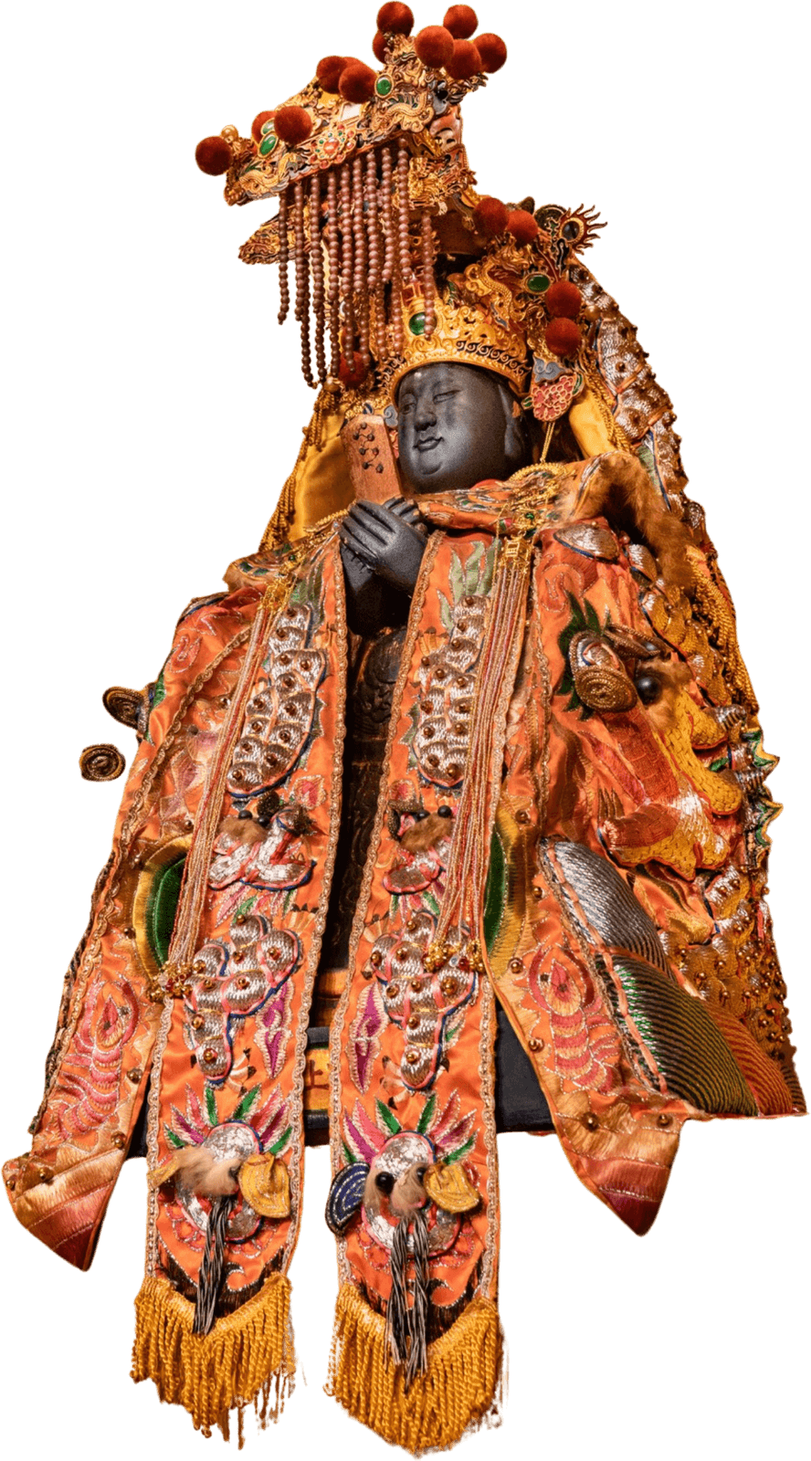
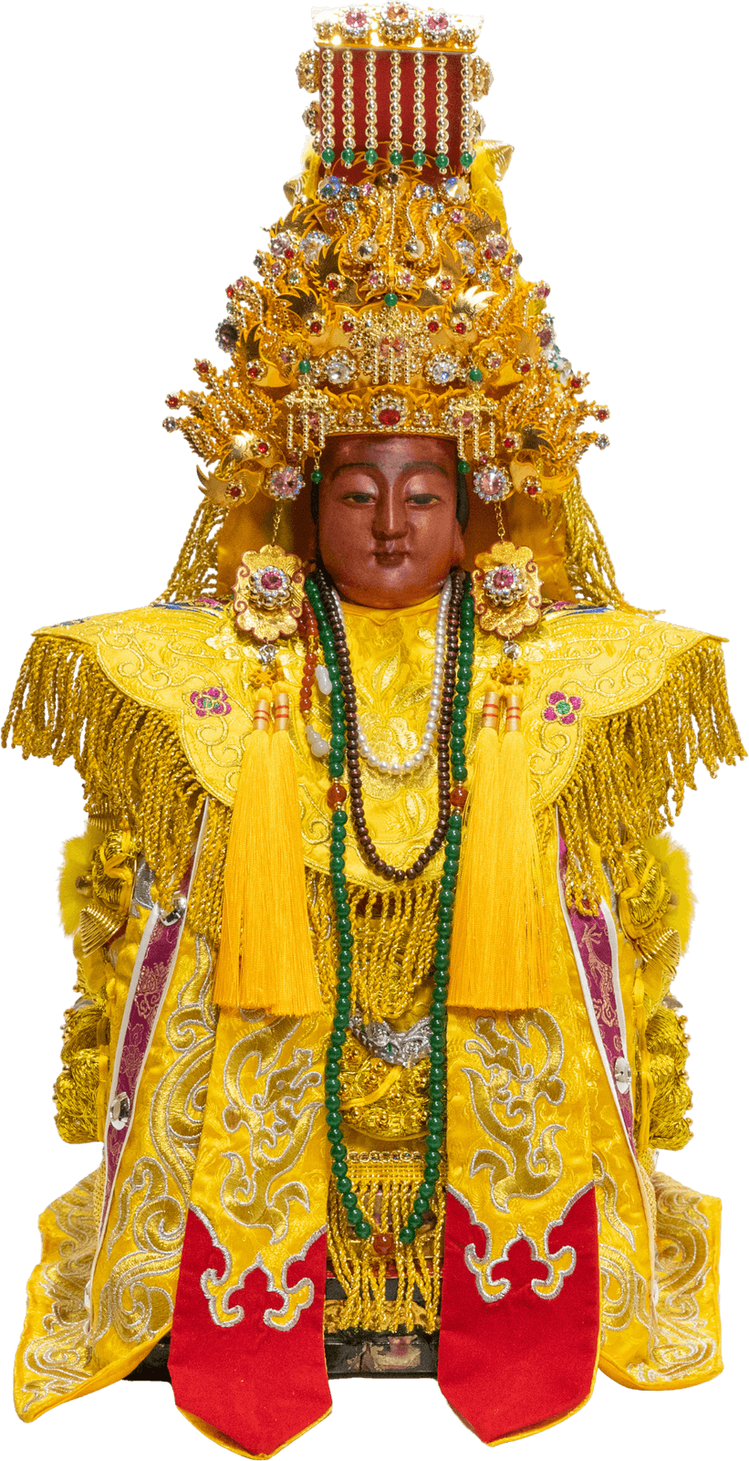
feat: Hero 改為「主神三媽在後、二媽與濟公在她面前」，並換上廟方新給的正面照
廟方給了合成圖指定最終構圖，同時提供二媽與濟公的正面照。

身分更正（我在 706912d 把兩尊媽祖對調錯了，這裡改回來）
  三媽（主神）＝橘袍黑面  二媽＝黃袍金冠
依據是廟方自己的檔名：神明正照/三媽.jpg 就是橘袍黑面那尊；
這次給的正面照檔名是 神明正照 (1)/天上二聖母.png（黃袍）與 五師父.png（濟公）。

  ⚠ 已知資料衝突：舊那批 神明正照/二媽.jpg 是「紅袍藍龍紋」那尊、不是黃袍。
  新舊兩批對「二媽」的指認不一致，現行採用新那批＋廟方 2026-09-02 的指認。
  alt 會被螢幕閱讀器念出來，動身分之前要再跟廟方確認。

換圖
  hero-jigong ← 五師父.png       1875x2500 已去背 → 裁 1143x2319 → 789x1600
  hero-erma   ← 天上二聖母.png   1875x2500 已去背 → 裁 1193x2325 → 821x1600
  自己算 alpha 邊界裁透明留白（不用 sharp 的 trim()，它比 RGB 會裁錯），
  輸出設定與既有一致（WebP q74/alpha82/effort6、PNG 調色盤 220 色）。
  hero-sanma 沿用既有的橘袍黑面那張。

構圖
  三媽 z-1 疊最底層、最高最大，身體被前面兩尊擋住只露出頭與冠帽；
  濟公 z-2 左前、二媽 z-3 右前，兩尊的臉大致齊高。
  高度比 57 : 98 : 76（濟公:三媽:二媽）是從廟方那張合成圖量出來的。
  臉的相對位置重量過（濟公 0.24、三媽 0.28、二媽 0.35），drop 照
  「臉高 = 圖高×(1−臉位) − drop」重解，不是沿用舊值。

vw clamp 係數 0.79 → 1.10（八個值同步）
  0.79 是配「三尊並排、總寬 121vh」算的；改成前後疊之後整組只剩約 80vh 寬，
  可以放寬。實測 820×1180 組寬 717px、1024×1366 組寬 895px，都塞得下。

驗收（實際像素判定，注意這一版身體本來就會被蓋住，只看頭）
  1280×800  濟公蓋三媽 0.00%｜二媽蓋濟公 0.00%｜二媽蓋三媽 0.36%
  375×812   0.00%｜0.00%｜0.22%
  手機左右各裁 1.66vw；820×1180 與 1024×1366 完全不裁。

順帶：build-hero-assets.js 的 DSC04874 job 早期叫 hero-erma（當時把三媽誤認
成二媽），檔名更正為 hero-sanma。

diff --git a/App.tsx b/App.tsx
@@ -272,65 +272,68 @@ const HERO_SLIDESHOW = false;
 /**
  * Hero 的三尊神尊。
  *
- * ── 身分（**這裡弄錯過兩次，改之前先讀完**）──
- *   左＝濟公活佛、中＝天上聖母三媽、右＝天上聖母二媽。
- *   **三媽是本壇主神，黃袍金冠；二媽是橘袍黑面。**
+ * ── 身分（**這裡弄錯過三次，改之前先讀完**）──
+ *   左前＝濟公活佛、中後＝天上聖母三媽（主神）、右前＝天上聖母二媽。
+ *   **三媽是本壇主神，橘袍黑面；二媽是黃袍金冠。**
  *   檔名 hero-jigong／hero-sanma／hero-erma 與 alt 都照這個對應，
  *   index.html 的 preload 指向 hero-sanma（主神）。
  *
+ *   判定依據是**廟方自己的檔名**：`~/Downloads/神明正照/三媽.jpg` 就是橘袍黑面那尊，
+ *   2026-09-02 廟方給的正面照 `神明正照 (1)/天上二聖母.png` 是黃袍、
+ *   `五師父.png` 是濟公。
+ *
+ *   已知的資料衝突（**要動身分之前先跟廟方確認，不要自己推**）：
+ *   舊那批 `神明正照/二媽.jpg` 是「紅袍藍龍紋」那尊，不是黃袍；新舊兩批對「二媽」
+ *   的指認不一致。現行採用新那批＋廟方 2026-09-02 的口頭指認。
+ *
  *   想快速確認誰是誰：取袍身下半部的色相中位數，
- *   **三媽約 45°（黃）、二媽約 21°（橘）**。濟公約 20°，跟二媽接近，
+ *   **三媽約 21°（橘）、二媽約 45°（黃）**。濟公約 27°，跟三媽接近，
  *   所以這招只用來分辨兩尊媽祖，不要拿來跟濟公比。
  *
- *   為什麼要寫這麼白：2026-09-01 那次「正名」把兩尊媽祖對調了——
- *   橘袍那尊從專案第一天就叫 hero-erma（scripts/build-hero-assets.js 的
- *   JOBS 註解「二媽 拍在黃牆前」是獨立佐證），卻被改名成三媽搬到中間，
- *   等於把主神標成別人，而 alt 會被螢幕閱讀器念出來。2026-09-02 換回來。
- *   **只看檔名不看圖，就會再錯一次。**
+ *   為什麼要寫這麼白：2026-09-01 的「正名」把兩尊媽祖對調過一次，
+ *   2026-09-02 我又照著錯的方向對調第二次（誤讀了廟方的敘述），同一天才修回來。
+ *   **只看檔名不看圖，就會再錯一次；只看圖不問廟方，一樣會錯。**
  *
- * ── 構圖：主神居中、三尊高低錯落（廟方要求）──
- *   三媽最高最大、疊在最上層（z-3），臉的高度也最高。
- *   臉高順序是 三媽 > 濟公 > 二媽（頂端順序不同，因為冠帽高度差很多，
- *   別拿頂端當驗收標準）。
+ * ── 構圖：主神在後、二媽與濟公在她面前（廟方 2026-09-02 給了合成圖）──
+ *   三媽最高最大，但**疊在最底層（z-1）**——她的身體被前面兩尊擋住，只露出頭與冠帽。
+ *   前面兩尊的臉大致齊高（濟公 z-2、二媽 z-3，兩者不互相重疊，先後無所謂）。
+ *   高度比 57 : 98 : 76（濟公 : 三媽 : 二媽）是從廟方那張合成圖量出來的。
  *
  *   drop 是每尊往畫面下方沉多少，決定臉的高度：
  *     臉在畫面上的高度 = 圖高 ×（1 − 臉在圖中的相對位置）− drop
- *   **換照片就要重量「臉在圖中的相對位置」再解一次 drop**，
- *   沿用舊值必定跑掉——同樣是媽祖，兩張的取景差了 8 個百分點。
- *   實測值（臉中心佔圖高的比例）：濟公 0.23、三媽 0.36、二媽 0.28。
+ *   **換照片就要重量「臉在圖中的相對位置」再解一次 drop**，沿用舊值必定跑掉。
+ *   實測值（臉中心佔圖高的比例）：濟公 0.24、三媽 0.28、二媽 0.35。
  *   量法：把圖畫成每 5% 一條的網格再目視讀刻度。用顏色規則自動找會失敗，
- *   二媽是黑面，她的手與軀幹跟臉同色，程式會抓到胸口去。
+ *   三媽是黑面，她的手與軀幹跟臉同色，程式會抓到胸口去。
  *
  * ── 驗收依據是「彼此不蓋到頭」，而且要用實際像素判定 ──
+ *   注意這一版**身體本來就會被蓋住**（那正是要的效果），只有頭不行。
  *   每尊的頭部（含冠帽）由 alpha 輪廓剖面算出：由上往下找寬度首次超過
- *   最大寬 55% 的那一列當肩線，肩線以上就是頭。實測：
- *     濟公 y 0–32.9%、x 22.5–76.5%；三媽 y 0–41.9%、x 33.0–88.5%；
- *     二媽 y 0–34.4%、x 24.0–86.5%。
+ *   最大寬 55% 的那一列當肩線，肩線以上就是頭。實測占圖高：
+ *     濟公 30.3%、三媽 34.4%、二媽 26.9%。
  *   判定要取「上層那尊的不透明像素 ∩ 下層那尊頭部的不透明像素」。
  *   只用頭部矩形會誤判——矩形四角本來就是透明的。
- *   2026-09-02 實測：桌機 1280×800 與平板 820×1180 都是 0.00/0.00/0.01%，
- *   手機 375×812 是 0.00/0.00/0.00%。
- *   手機那組的交疊量是這樣定出來的：二媽的頭在自己圖框裡偏左（左緣 24%），
- *   沿用舊的 -ml-[16vw] 會壓掉她 11% 的冠帽，放鬆到 11vw 才歸零。
+ *   2026-09-02 實測：1280×800 是 0.00／0.00／0.36%，375×812 是 0.00／0.00／0.22%
+ *   （那個零點幾是二媽的冠帽尖端擦到三媽頭部範圍的邊緣，肉眼看不出來）。
  *
  * ── 單位規則 ──
  *   **同一個斷點內所有尺寸必須用同一種單位**，混用畫面比例一變就散掉。
  *   手機（未加 sm: 的那組）用 vw、桌機（sm:）用 vh。
  *   手機用 vw 是因為痛點是「三尊要貼齊左右兩邊」：用 vh 算出來的總寬
  *   只有在某個螢幕比例下剛好等於螢幕寬，換一支比較寬的手機兩邊就空一塊。
- *   目前手機總寬約 113vw，左右各裁掉 6.4vw（裁到的是濟公的左袖與
- *   二媽的右袍襬，不是臉）。
+ *   目前手機總寬約 103vw，左右各裁掉 1.7vw。
  *
- *   桌機那組每個 vh 都包一層 `min(A vh, A×0.79 vw)`（**0.79 這個比例八個值要一起改**）。
+ *   桌機那組每個 vh 都包一層 `min(A vh, A×1.10 vw)`（**1.10 這個比例八個值要一起改**）。
  *   為什麼需要：平板直立（iPad 第十代 820×1180）時螢幕又高又窄，純 vh 會讓整組寬過畫面，
  *   最左邊的濟公被切掉。加上 vw 上限之後，高瘦畫面自動改由寬度決定尺寸，三個高度與
- *   兩個重疊量同步縮放，構圖不變。係數一路從 0.9 降到 0.79，是因為每次把整組加大
- *   （廟方要求「不要都擠在右下角，提高到整個右邊」）都會讓它在平板直立溢出左緣。
- *   判定門檻是長寬比 1/0.79 ≈ 1.266：比這寬（一般桌機、筆電、平板橫放）走 vh，
+ *   兩個重疊量同步縮放，構圖不變。
+ *   判定門檻是長寬比 1/1.10 ≈ 0.909：比這寬（一般桌機、筆電、平板橫放）走 vh，
  *   **桌機完全不受影響**；比這窄（平板直立）走 vw。
+ *   係數之前是 0.79，那是配「三尊並排、總寬 121vh」算的；改成前後疊之後整組只剩
+ *   約 80vh 寬，係數可以放寬回 1.10。實測 820×1180 組寬 717px、1024×1366 組寬 895px，
+ *   兩個都塞得下。
  *
  * ── 其他 ──
- *   layer：矮的在前、高的在後，像神桌的排法。但主神例外，她疊最上層。
  *   `sm:max-w-none`：原本的 `sm:max-w-[44/52/60vw]` 是防呆上限，但三個加起來是 156vw，
  *   在窄螢幕上三個同時觸頂，反而變成「寬度被撐開」的元凶。高度改用 min() 之後
  *   寬度自然受限於畫面寬，這層上限沒有必要，留著只會壞事。
@@ -339,26 +342,26 @@ const HERO_SLIDESHOW = false;
  *   陣列留空則整區不渲染，版面不會出現空洞。
  *
  *   已知未修：平板直立（820×1180）時 Hero 左欄的「報名普渡法會」按鈕會被擠出畫面左緣。
- *   那是既有問題（正式站量到 left=-173），成因是 stage 掛 shrink-0、左欄是 flex-1，
- *   按鈕又是 whitespace-nowrap。要修得把 Hero 的兩欄斷點從 sm 提到 lg，讓平板直立
- *   沿用手機的上下堆疊版型——那是另一件事。
+ *   那是既有問題，成因是 stage 掛 shrink-0、左欄是 flex-1，按鈕又是 whitespace-nowrap。
+ *   要修得把 Hero 的兩欄斷點從 sm 提到 lg，讓平板直立沿用手機的上下堆疊版型。
  */
 const HERO_DEITIES: Array<{ src: string; fallback: string; name: string; size: string; drop: string; gap?: string; layer: string; priority?: boolean }> = [
-  // 左：濟公活佛。z 在主神之下，右半邊被主神蓋住一截（但不會蓋到頭，見上方說明）。
+  // 左前：濟公活佛。臉最低，疊在三媽之前
   { src: '/hero-jigong.webp', fallback: '/hero-jigong.png', name: '濟公活佛',
-    size: 'h-[60vw] max-w-[72vw] sm:h-[min(72vh,56.88vw)] sm:max-w-none',
-    drop: '-mb-[7vw] sm:mb-[calc(min(8vh,6.32vw)*-1)]', layer: 'z-[2]' },
-  // 中：天上聖母三媽（黃袍金冠），本壇主神。最高最大、疊在最上層，優先權與 preload 都給她
-  //（index.html 的 preload 要指向同一張，兩邊不一致等於預載了不是主角的那張）
+    size: 'h-[74vw] max-w-[72vw] sm:h-[min(57vh,62.7vw)] sm:max-w-none',
+    drop: '-mb-[8vw] sm:mb-[calc(min(6vh,6.6vw)*-1)]', layer: 'z-[2]' },
+  // 中後：天上聖母三媽，本壇主神。最高最大，但**疊在最底層**——廟方要的構圖是
+  // 「二媽與濟公在三媽面前」，她的身體被前面兩尊擋住，只露出頭與冠帽。
+  // 優先權與 index.html 的 preload 都給她（兩邊不一致等於預載了不是主角的那張）
   { src: '/hero-sanma.webp',  fallback: '/hero-sanma.png',  name: '天上聖母三媽',
-    size: 'h-[108vw] max-w-[88vw] sm:h-[min(98vh,77.42vw)] sm:max-w-none',
-    drop: '-mb-[10.5vw] sm:mb-[calc(min(9.7vh,7.66vw)*-1)]',
-    gap: '-ml-[15vw] sm:ml-[calc(min(10.5vh,8.29vw)*-1)]', layer: 'z-[3]', priority: true },
-  // 右：天上聖母二媽（橘袍黑面）。刻意與濟公不同高，做出「高低錯落」而不是對稱的兩根柱子
+    size: 'h-[128vw] max-w-[88vw] sm:h-[min(98vh,107.8vw)] sm:max-w-none',
+    drop: '-mb-[15vw] sm:mb-[calc(min(12vh,13.2vw)*-1)]',
+    gap: '-ml-[24vw] sm:ml-[calc(min(18vh,19.8vw)*-1)]', layer: 'z-[1]', priority: true },
+  // 右前：天上聖母二媽（黃袍金冠）。臉與濟公大致齊高，兩尊一起框住後面的主神
   { src: '/hero-erma.webp',   fallback: '/hero-erma.png',   name: '天上聖母二媽',
-    size: 'h-[62vw] max-w-[76vw] sm:h-[min(74vh,58.46vw)] sm:max-w-none',
-    drop: '-mb-[11.5vw] sm:mb-[calc(min(11vh,8.69vw)*-1)]',
-    gap: '-ml-[11vw] sm:ml-[calc(min(15.5vh,12.25vw)*-1)]', layer: 'z-[1]' },
+    size: 'h-[99vw] max-w-[76vw] sm:h-[min(76vh,83.6vw)] sm:max-w-none',
+    drop: '-mb-[15vw] sm:mb-[calc(min(12vh,13.2vw)*-1)]',
+    gap: '-ml-[31vw] sm:ml-[calc(min(24vh,26.4vw)*-1)]', layer: 'z-[3]' },
 ];
 
 // 志工報名有自己的網址 /volunteer：可單獨分享，瀏覽器上一頁也能正確返回。

diff --git a/scripts/build-hero-assets.js b/scripts/build-hero-assets.js
@@ -19,15 +19,18 @@ const D = process.env.HOME + '/Downloads/';
 const OUT = '/Users/chiehfanchung/Documents/和聖壇網站/public/';
 
 // 三尊的去背參數各自不同，因為背景完全是兩回事：
-//   二媽 拍在黃牆前（牆和橘袍同色系，只能靠飽和度＋過曝亮斑切，寧可留一點牆）
-//   濟公 拍在灰背板前（低飽和高亮就是背景，好切）
-// 主神三媽（黃袍）不在這裡：她是 2026-09-01 才進 Hero 的新照片，廟方給的就已去背。
+//   三媽（主神，橘袍黑面）拍在黃牆前（牆和橘袍同色系，只能靠飽和度＋過曝亮斑切，
+//     寧可留一點牆）。**這個 job 早期叫 hero-erma，因為當時把她誤認成二媽**，
+//     檔名已更正為 hero-sanma，pred 參數照舊可用。
+//   濟公 拍在灰背板前（低飽和高亮就是背景，好切）——但 public/ 現在那張是
+//     2026-09-02 廟方給的正面照，已去背，沒走這裡。
+// 二媽（黃袍金冠）不在這裡：2026-09-02 才進 Hero，廟方給的就已去背。
 const JOBS = [
   // 黃牆：牆與橘袍是同一個色系（實測牆 h40 s0.99 v0.92、袍緣 h39 s0.98 v0.91，
   // 顏色上根本分不開），只能靠連通性擋。原則是寧可留一點牆——Hero 底就是金色，
   // 殘留的黃看不太出來，少一塊袍子卻很明顯。
   // 反光亮斑那一條要加 s<0.65 才切得掉：不加會連神尊肩後那塊黃布（s0.87 v0.98）一起吃掉。
-  { src: 'DSC04874.png',         name: 'hero-erma',
+  { src: 'DSC04874.png',         name: 'hero-sanma',
     pred: (h,s,v) => (h>=20 && h<=55 && v>0.28 && s>0.68) || (v>0.965 && s<0.65),
     neck: 6, erode: 1 },
   // （已退場）hero-mazu：紅袍藍龍紋那尊，2026-09-01 起不在 Hero 上，

diff --git a/index.html b/index.html
@@ -215,7 +215,7 @@
         opacity: 0;
         animation: heroDeityReveal 1050ms cubic-bezier(0.16, 0.76, 0.24, 1) forwards;
       }
-      /* 依序由左到右浮出：1=左濟公、2=中三媽（主神）、3=右二媽 */
+      /* 依序由左到右浮出：1=左前濟公、2=中後三媽（主神）、3=右前二媽 */
       .hero-deity-1 { animation-delay: 240ms; }
       .hero-deity-2 { animation-delay: 420ms; }
       .hero-deity-3 { animation-delay: 560ms; }

diff --git a/CLAUDE.md b/CLAUDE.md
@@ -76,12 +76,16 @@ vercel --prod --yes  # 部署正式站（已連結專案 machu）
 - 後台匯出/篩選：`inDateRange()` 依報名日期（本地時區）篩選、`DateRangeFilter` 共用元件；匯出走 `filtered` 會跟著日期範圍。法會/志工兩分頁都有。
 - **Hero 香煙（`components/IncenseSmoke.tsx`）**：**畫一條會捲的曲線，不要用粒子**。第一版做粒子模擬，粒子一散開單顆濃度就掉到看不見，整體只剩一片霧——廟方要的是「細細長長的一縷白煙」，粒子做不出來。三個關鍵：(1) **螺旋要 x、y 同時繞**（`COIL`）——只讓 x 擺動、y 單調往上，畫出來是鋸齒像閃電；真實的煙是繞著上升軸的螺旋，側看會投影成一串壓扁的橢圓、甚至自我交疊，那才是麻花感。(2) **擾動隨高度才加進來**（`LAMINAR`/`TRANSITION`），下段直、上段捲，這是線香層流轉紊流的真實行為。(3) **柔邊靠疊四道**（`PASSES`）由寬而淡到窄而濃，只畫一道不是銳利得像鐵絲就是糊得像霧。形狀的相位隨時間往上跑、速度等於煙速（`RISE_SECONDS` 換算），煙的形狀是被氣流整段帶著走的。線很細所以要照實際像素畫，用一半解析度會糊掉。(4) **整條一次 `fill()`，不要分段 `stroke()`**——舊版把曲線切成 40 段各自描邊，`lineCap:'round'` 讓每段的圓頭與下一段重疊、螺旋自我交疊處又再疊一次，alpha 相加就是一串「反光顆粒」（離線量到沿線 35 個亮點，接近 240/6=40 個接縫）。改成沿中心線推出半個線寬、繞一圈成封閉多邊形整條填滿：沒有接縫，而且 nonzero 填充規則對自我交疊只填一次。濃度改用垂直線性漸層（`alphaAt` 只跟高度有關，剛好對得上）。改完亮點數降到 4、相鄰起伏降到 1/10；因為不再疊加，平均亮度掉 17%，`PASSES` 的 a 要乘 1.3 補回來。捲離 Hero 或切分頁會停掉 rAF；可見與否一律以 `getBoundingClientRect` 為準，不採信 IntersectionObserver 的 isIntersecting（誤報一次 false 就會永遠停住）。
 - **神尊去背（`scripts/build-hero-assets.js`＋`scripts/cutout-lib.js`）**：廟方給新照片時跑這支就好，用法寫在檔頭（sharp 裝在暫存資料夾，別寫進 package.json）。作法是「顏色判定＋從四邊長進來的連通元件＋斷細頸」，不是單純的色鍵。兩個踩過的坑：(1) **sharp 對單通道 raw 做 `blur()` 會自動升成 3 通道**，沒接 `.toColourspace('b-w')` 拿回來的 buffer 長度是 3 倍，alpha 會整片錯位；(2) 不要用 sharp 的 `trim()` 裁透明邊界——它比的是 RGB，而透明處的 RGB 還留著原始背景，會裁到莫名其妙的範圍，自己算 bbox 再 `extract()`。原則：**寧可留一點背景也不要咬掉神尊**（Hero 底是金色，殘留的黃牆幾乎看不出來，缺一塊袍子很明顯）。實際咬過頭的兩個原因：(1) **形態學開運算（fgOpen）會刪掉細長突出物**——濟公手上的法器、帽尖、冠帽流蘇都是這樣消失的，已經拿掉不再使用；(2) **顏色門檻抓太鬆**：白背板實測 s 只有 0.03–0.04，用 s<0.18 會把神尊身上的銀線繡、珍珠、淺色布一起判成背景。灰背板改用色相切（背板偏藍 h≈205，神尊是暖色 h≈42）比用亮度安全得多。驗收要用 `-tmp-mask.png` 這種**未裁切的全幅遮罩**疊回原圖看，拿裁切後的 PNG 去對位會因為 bbox 不對稱產生假的「被咬掉」。
-- **Hero 神尊在平板直立會被切（`HERO_DEITIES`）**：桌機那組尺寸原本是純 vh，平板直立（iPad 第十代 820×1180）螢幕又高又窄，整組寬到 949px 卻只有 820px 可放，最左邊的濟公被切掉快一半。解法是每個 vh 都包 `min(A vh, A×0.79 vw)`，**0.79 這個比例八個值要一起改**；長寬比 1/0.79≈1.266 是分界，比這寬走 vh（桌機完全不受影響），比這窄走 vw。同時要把 `sm:max-w-[…vw]` 改成 `sm:max-w-none`——那三個上限加起來是 156vw，窄螢幕上同時觸頂反而是撐寬的元凶。負邊距要寫 `mb-[calc(min(…)*-1)]`，寫 `-mb-[min(…)]` 會產出無效的 `-calc(...)`。改完在 820×1180／1024×1366／1280×800 量過。驗收標準是**三尊彼此不蓋到頭、且用實際像素判定**（頭部矩形會誤判，四角本來就透明），現況三個尺寸都 ≤0.01%。
-- **Hero 三尊的身分弄錯過兩次（`HERO_DEITIES`）**：左＝濟公、中＝**天上聖母三媽（主神、黃袍金冠）**、右＝**天上聖母二媽（橘袍黑面）**。
-  2026-09-01 的「正名」把兩尊媽祖對調了——橘袍那尊從專案第一天就叫 `hero-erma`（`scripts/build-hero-assets.js` 的 JOBS 註解「二媽 拍在黃牆前」是獨立佐證），卻被改名成三媽搬到中間，等於把主神標成別人，而 `alt` 會被螢幕閱讀器念出來。2026-09-02 換回來。
-  **只看檔名不看圖就會再錯一次**：要分辨兩尊媽祖，取袍身下半部的色相中位數——三媽約 45°（黃）、二媽約 21°（橘）。濟公約 20°，跟二媽接近，這招只用來分辨兩尊媽祖。
-  換照片時 `drop` 一定要重算：`臉高 = 圖高×(1−臉在圖中的相對位置) − drop`，兩張媽祖的取景差了 8 個百分點，沿用舊值臉的高低順序就會翻掉。臉的位置用「每 5% 一條網格」目視讀，別寫顏色規則自動找——二媽是黑面，她的手與軀幹跟臉同色，程式會抓到胸口。
-  `scripts/build-hero-assets.js` **產不出現在 public/ 那三張**：2026-09-01 起廟方直接給已去背的原圖，當時只裁 alpha 邊界＋縮到 1600 高（腳本輸出的是 1400）。要重跑先確認手上的原始檔是不是未去背。
+- **Hero 神尊在平板直立會被切（`HERO_DEITIES`）**：桌機那組尺寸原本是純 vh，平板直立（iPad 第十代 820×1180）螢幕又高又窄，整組寬到 949px 卻只有 820px 可放，最左邊的濟公被切掉快一半。解法是每個 vh 都包 `min(A vh, A×1.10 vw)`，**1.10 這個比例八個值要一起改**；長寬比 1/1.10≈0.909 是分界，比這寬走 vh（桌機完全不受影響），比這窄走 vw。同時要把 `sm:max-w-[…vw]` 改成 `sm:max-w-none`——那三個上限加起來是 156vw，窄螢幕上同時觸頂反而是撐寬的元凶。負邊距要寫 `mb-[calc(min(…)*-1)]`，寫 `-mb-[min(…)]` 會產出無效的 `-calc(...)`。係數之前是 0.79，那是配「三尊並排、總寬 121vh」算的；改成前後疊之後整組只剩約 80vh 寬，才放寬回 1.10。實測 820×1180 組寬 717px、1024×1366 組寬 895px，都塞得下。
+- **Hero 三尊的身分弄錯過三次（`HERO_DEITIES`）**：左前＝濟公、中後＝**天上聖母三媽（主神、橘袍黑面）**、右前＝**天上聖母二媽（黃袍金冠）**。
+  依據是**廟方自己的檔名**：`~/Downloads/神明正照/三媽.jpg` 就是橘袍黑面那尊；2026-09-02 廟方給的正面照 `神明正照 (1)/天上二聖母.png` 是黃袍、`五師父.png` 是濟公。
+  **已知資料衝突，動身分之前一定要問廟方**：舊那批 `神明正照/二媽.jpg` 是「紅袍藍龍紋」那尊、不是黃袍，新舊兩批對「二媽」的指認不一致。現行採用新那批＋廟方 2026-09-02 的指認。
+  歷史：2026-09-01 的「正名」把兩尊媽祖對調過一次；2026-09-02 我誤讀敘述又往錯的方向對調第二次，同一天修回來。**只看檔名不看圖會錯，只看圖不問廟方一樣會錯。**
+  分辨兩尊媽祖：取袍身下半部的色相中位數——三媽約 21°（橘）、二媽約 45°（黃）。濟公約 27°，跟三媽接近，這招只用來分辨兩尊媽祖。
+  換照片時 `drop` 一定要重算：`臉高 = 圖高×(1−臉在圖中的相對位置) − drop`。現行值：濟公 0.24、三媽 0.28、二媽 0.35。臉的位置用「每 5% 一條網格」目視讀，別寫顏色規則自動找——三媽是黑面，她的手與軀幹跟臉同色，程式會抓到胸口。
+- **Hero 構圖是「主神在後、二媽與濟公在她面前」**（廟方 2026-09-02 給合成圖指定）：三媽最高最大但 `z-1` 疊最底層，身體被前面兩尊擋住、只露出頭與冠帽；前兩尊的臉大致齊高。高度比 57:98:76（濟公:三媽:二媽）是從那張合成圖量出來的。
+  **驗收只看「頭有沒有被蓋到」**——身體被蓋是刻意的。用實際像素判定（`上層不透明 ∩ 下層頭部不透明`），頭部矩形會誤判因為四角本來就透明。現況 1280×800 是 0.00/0.00/0.36%、375×812 是 0.00/0.00/0.22%。
+  `scripts/build-hero-assets.js` **產不出現在 public/ 那三張**：2026-09-01 起廟方直接給已去背的原圖，只需裁 alpha 邊界＋縮到 1600 高（腳本輸出的是 1400、且會再跑一次 cutout）。要重跑先確認手上的原始檔是不是未去背。
 - **遷址方案手機卡片**（`components/RelocationPage.tsx`）：只列「這一級有的」項目，沒有的不要畫灰色「—」。桌機是矩陣表格、橫向能比較各級差異，畫「—」才有意義；手機一級一張卡沒有比較對象，列一堆「—」是干擾（廟方明確反映過）。金額的「元」由 `withCurrency()` 在渲染層補，後台只存數字，「隨喜」這種非數字不會被加上單位。
 - **滾動視差／進場（`hooks/useScrollMotion.ts`）**：全站一個引擎，App 掛一次掃全 document。元素只要掛 class：`.sr`＋`.sr-up/left/right`（進場）、`.sr-figure`（正向位移 96px）、`.sr-counter`（反向 56px），`data-par` 可覆寫幅度。**三件事必須分在三層元素上**：進場的 transform 由 CSS 給、視差的 transform 由 JS 寫成 inline、卡片自己的 `hover:-translate-y-*` 又是第三個 transform——疊在同一個元素上只會剩一個生效。另外 Tailwind CDN 排在自訂 `<style>` 之後，元素若帶 `transition-all` 會把 `.sr` 的 0.85s 曲線壓成 150ms，這種卡片要把 `.sr` 放外層包一層。
 - **把既有元素包進新容器時，檢查它有沒有「靠父容器生效」的 class**：`flex-1`、`col-span-*`，以及最容易漏的**隱性依賴**——輸入框沒寫 `w-full`、單純靠 grid 自動拉滿。包一層 `<label>` 之後，grid 的子元素變成 label，input 只剩瀏覽器預設寬度；而預設寬度取決於字級，**小字級的裝置上看起來變窄、大字級的裝置上反而溢出被裁掉**（同一個 bug 兩種表現，2026-08-13 踩過）。驗收時要比對寬度，不能只確認新元素有出現。
@@ -149,4 +153,4 @@ vercel --prod --yes  # 部署正式站（已連結專案 machu）
 - 2026-08-05 四項服務拆獨立分頁、導覽改名與「更多」收納、法會著陸改 FAHUI_LANDING 旗標、公告加照片
 - 2026-08-10 正式網域上線、預渲染與 AI SEO、首頁常見問題區塊（content/faq.json 單一來源）
 - 2026-08-11 會員資料自動帶入四表單、香煙改緞帶填滿、平板直立 Hero 修正、全站區塊標題統一
-- 2026-09-02 Hero 兩尊媽祖身分換回（三媽黃袍居中為主神、二媽橘袍在右），drop／交疊量重算
+- 2026-09-02 Hero 改為「主神三媽在後、二媽與濟公在前」，二媽與濟公換成廟方新給的正面照；身分確認為三媽＝橘袍黑面、二媽＝黃袍
